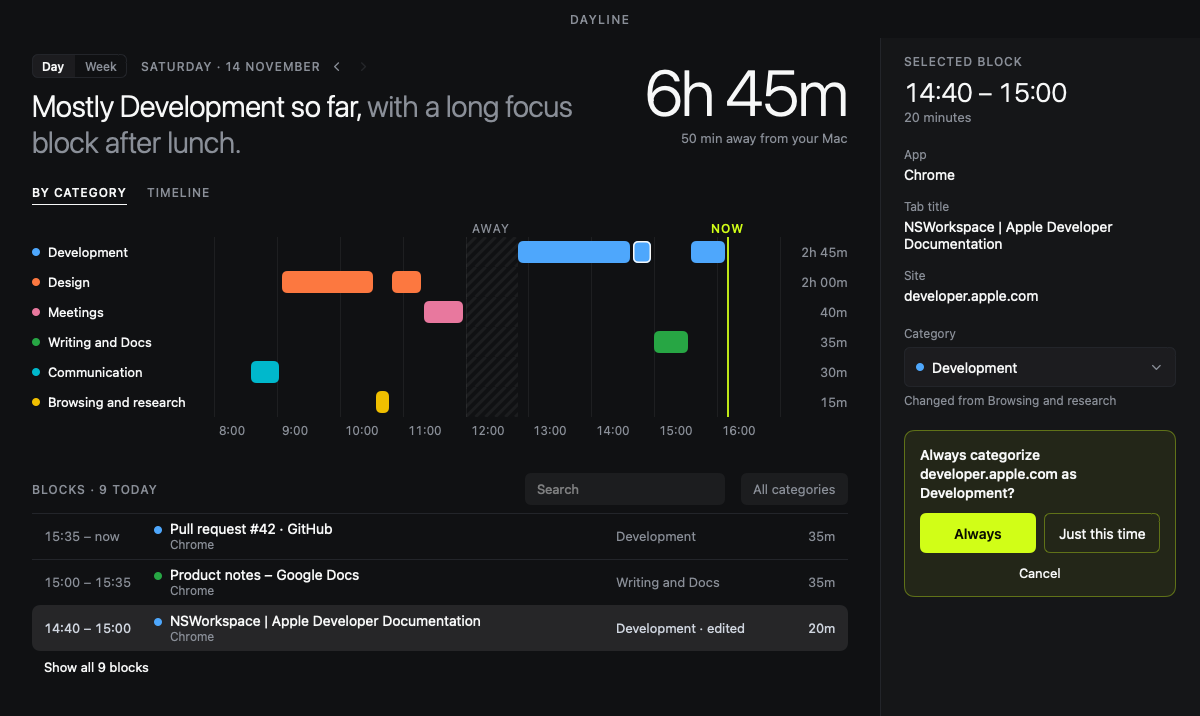
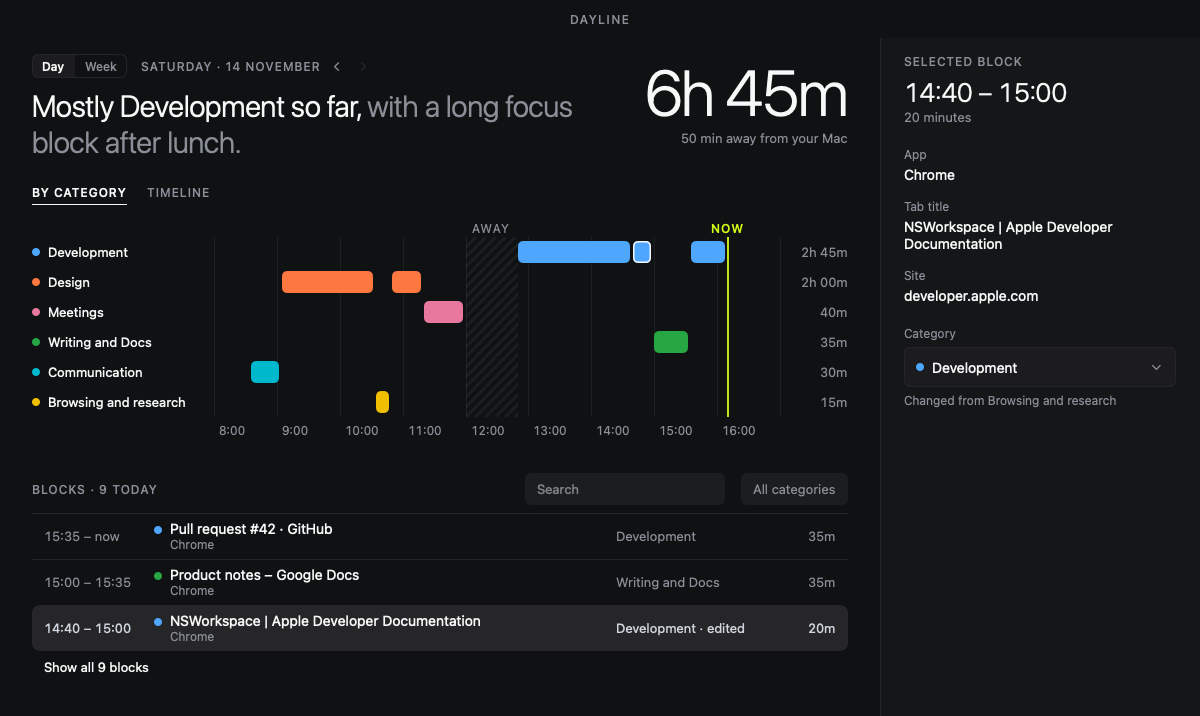
README day screenshot without the remember prompt

Changed region(s): [[0.74, 0.6145, 0.9558, 0.7989], [0.8633, 0.7989, 0.8942, 0.8296]]

diff --git a/Sources/ui-snapshots/main.swift b/Sources/ui-snapshots/main.swift
@@ -241,7 +241,10 @@ MainActor.assumeIsolated {
 // The README's screens: drawn in a real hosting view, so the search field
 // and scrolling content render as in the app.
 MainActor.assumeIsolated {
-    for (name, vm) in [("readme-day", selectedVM), ("readme-week", weekVM)] {
+    // The day with a block selected, without the "Always categorize" prompt.
+    let readmeDay = HomeViewModel(report: correctedReport)
+    readmeDay.selection = corrected.id
+    for (name, vm) in [("readme-day", readmeDay), ("readme-week", weekVM)] {
         let host = NSHostingView(rootView: HomeView(viewModel: vm).frame(width: 1200, height: 716))
         let win = NSWindow(contentRect: NSRect(x: -4000, y: 0, width: 1200, height: 716), styleMask: [.borderless], backing: .buffered, defer: false)
         win.contentView = host
